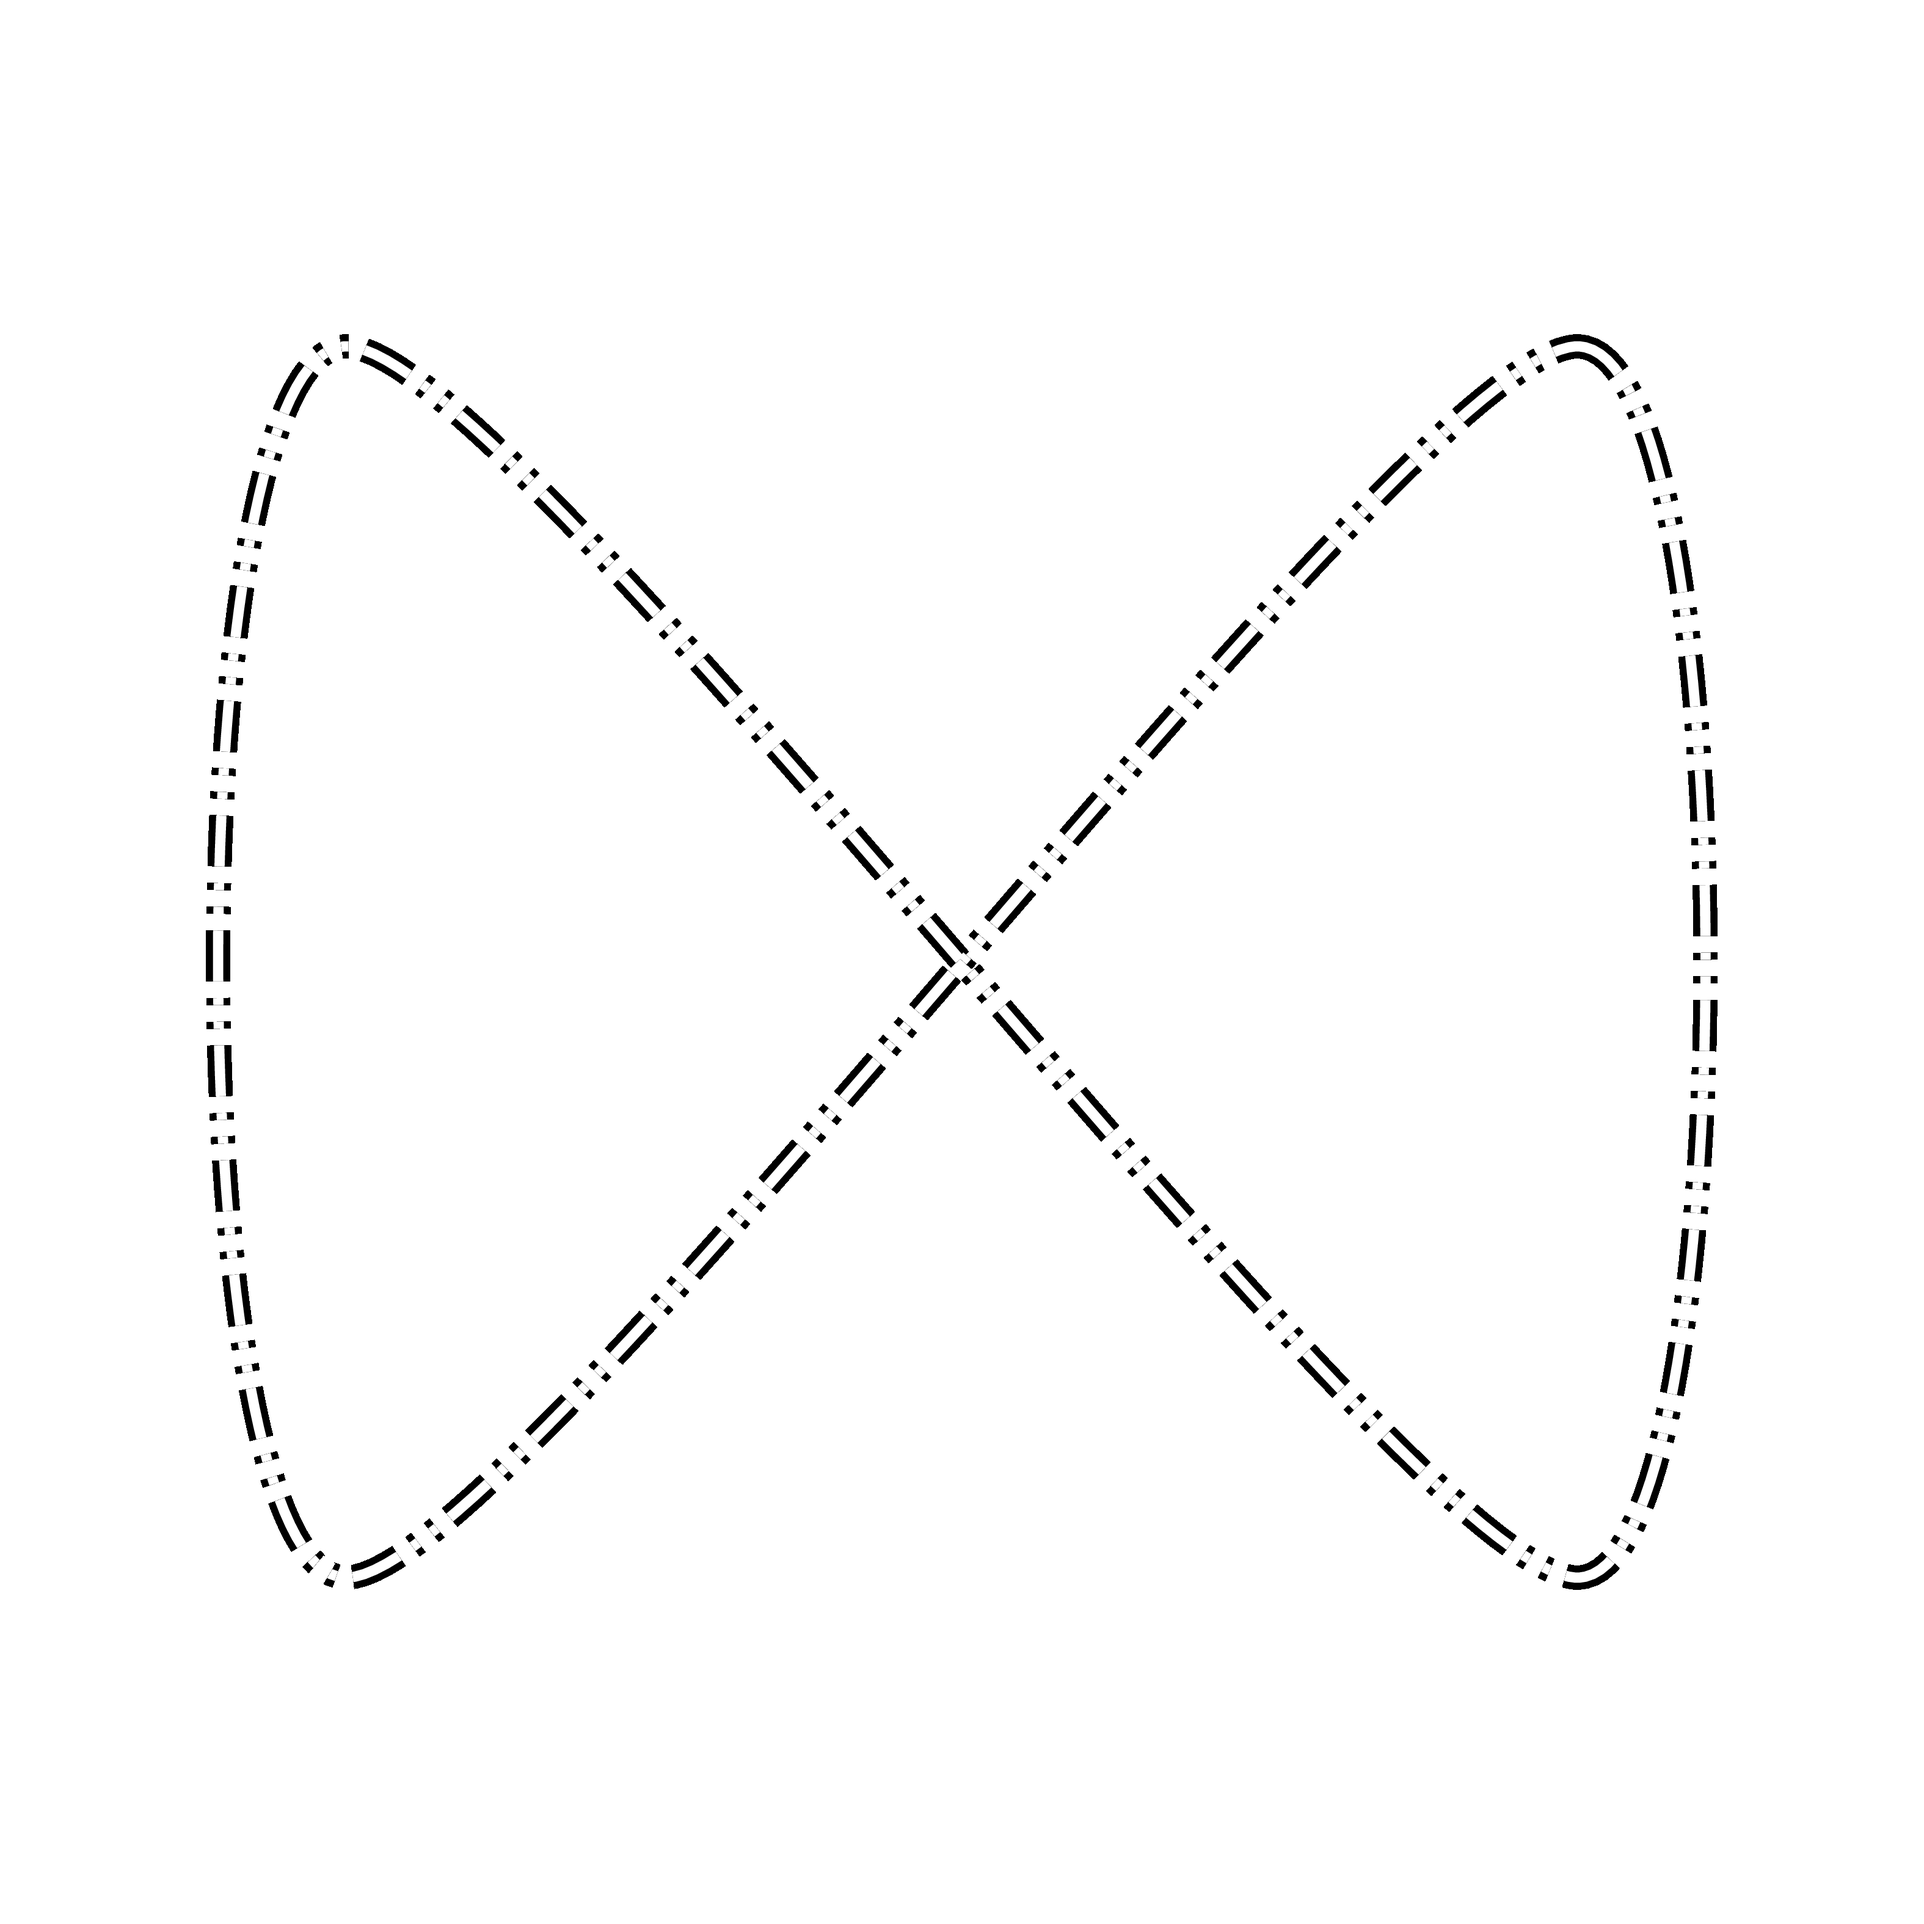
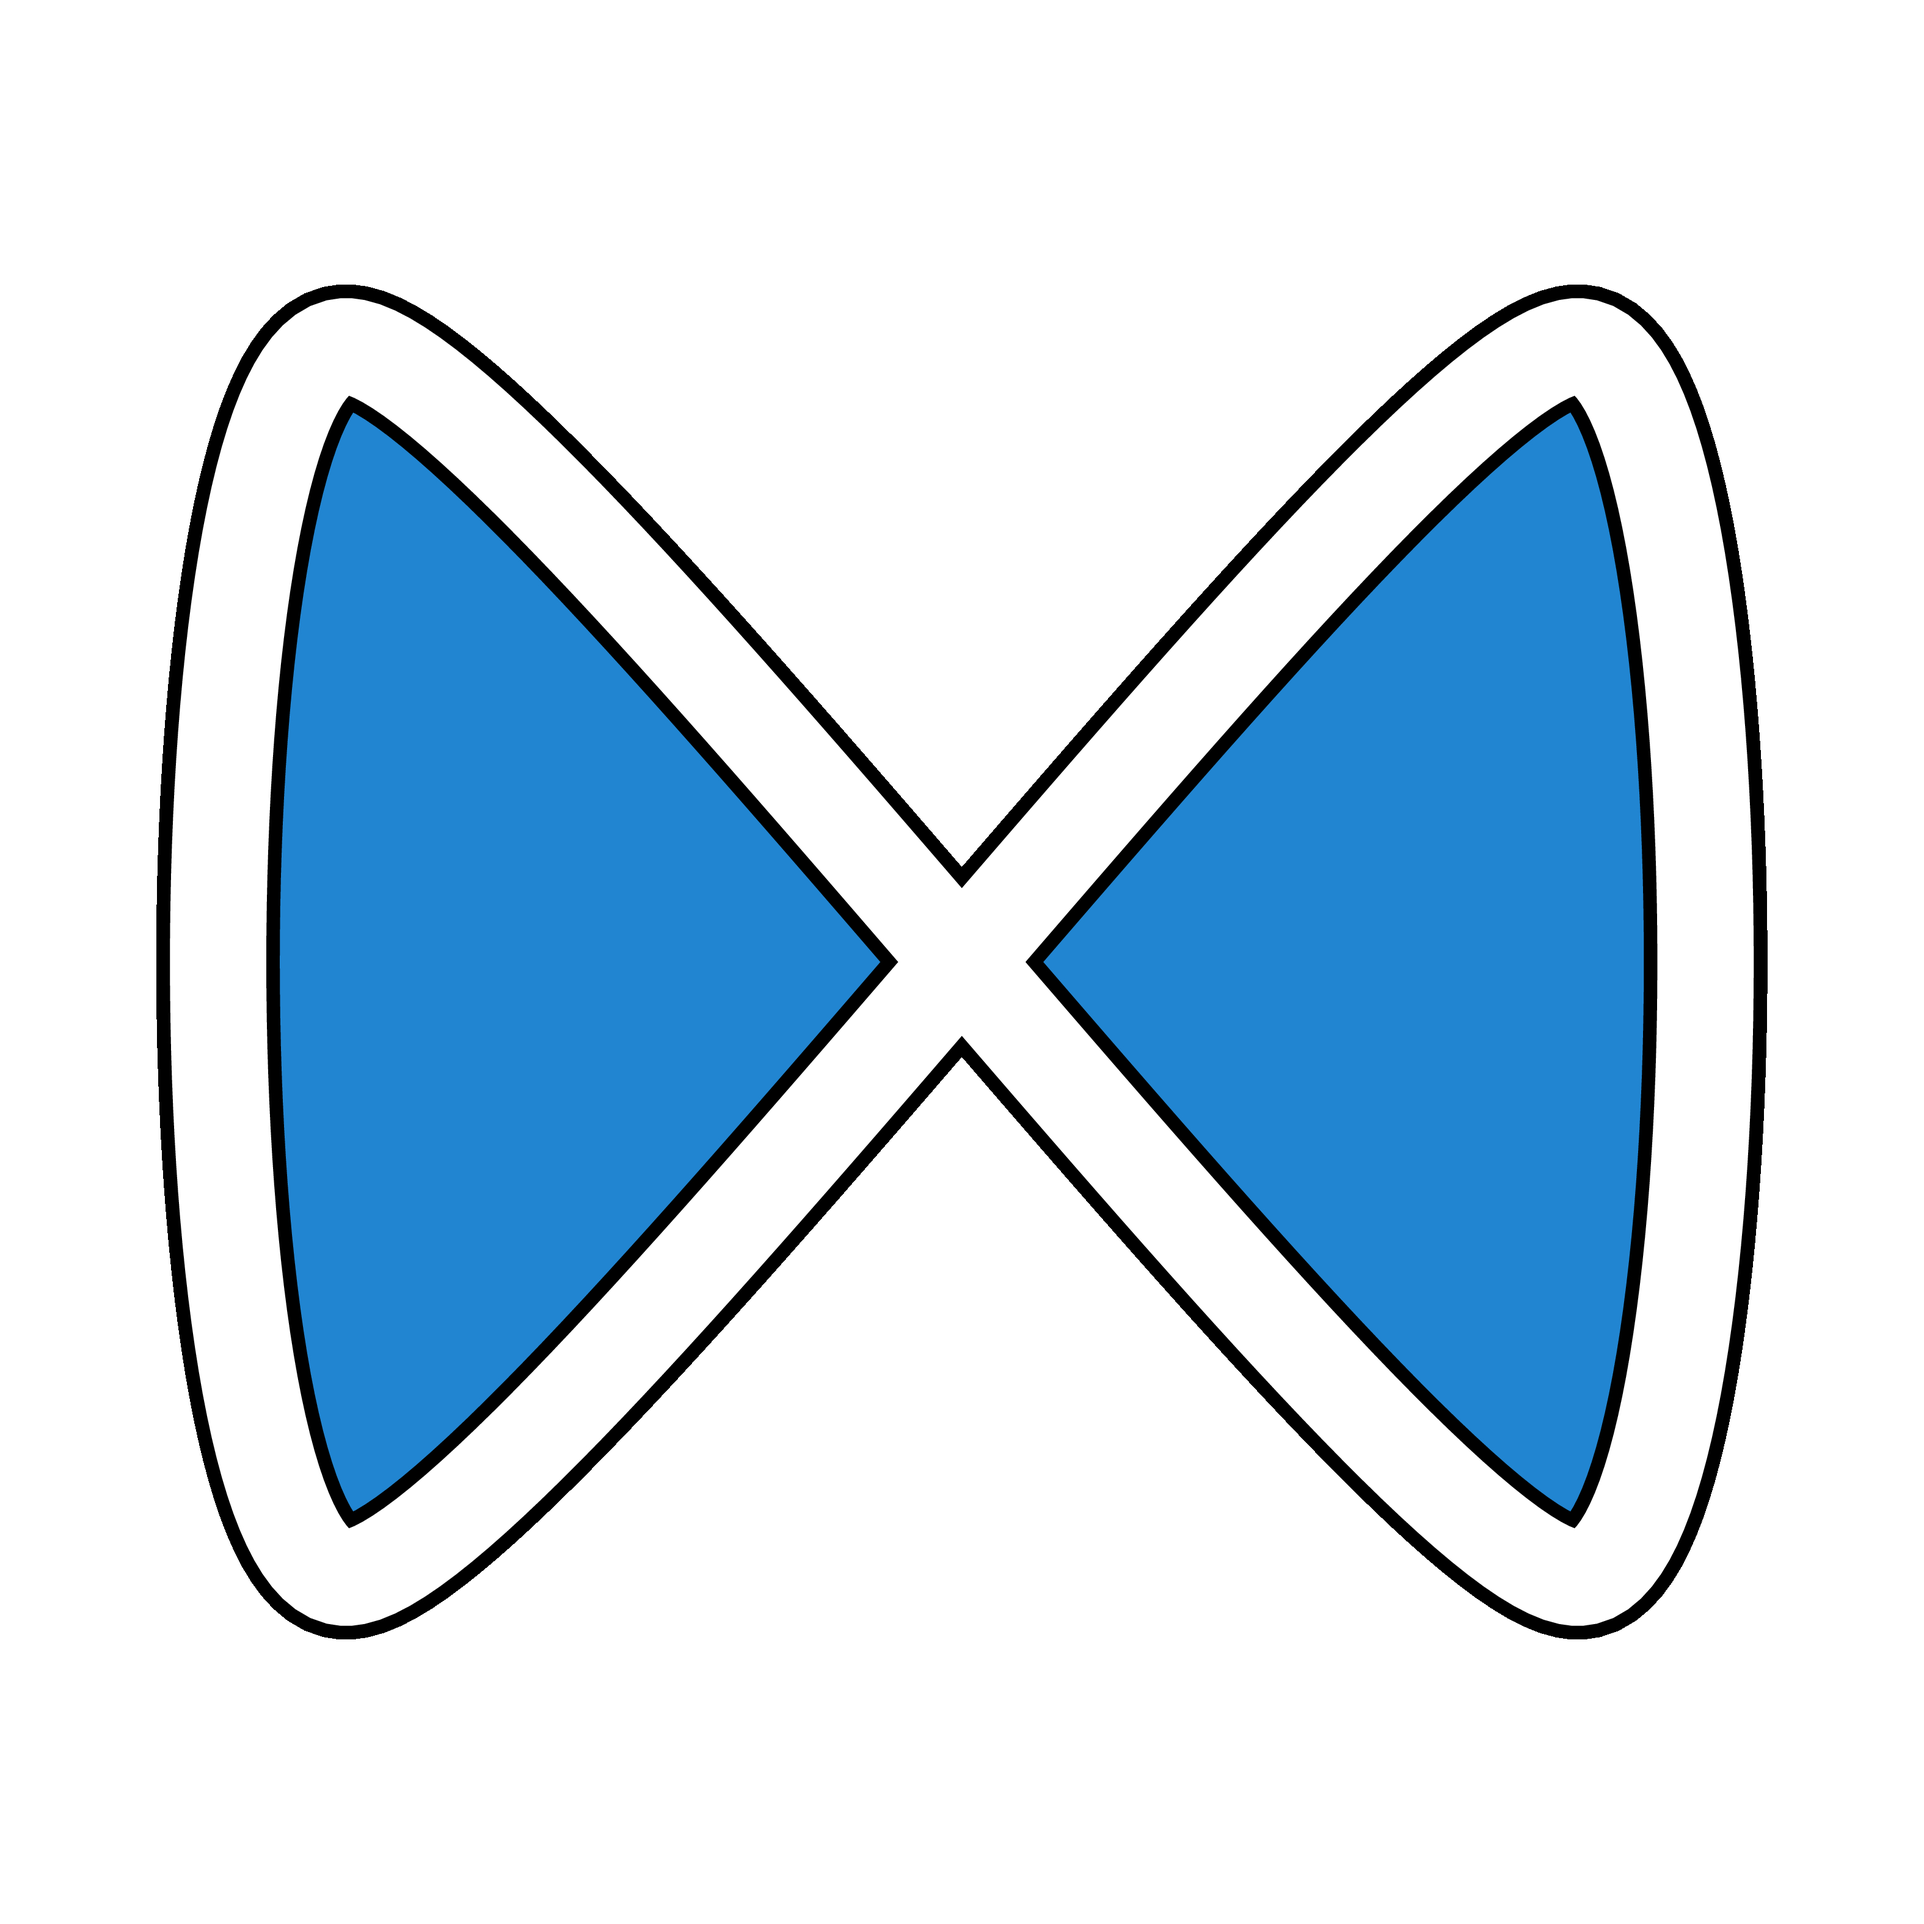
Update design, fill with light blue color.
The first initial design show bad results when used as browsers'
favicons.

Changed region(s): [[0.0622, 0.1244, 0.9333, 0.8711]]

diff --git a/gravatar/gravatar.tex b/gravatar/gravatar.tex
@@ -6,10 +6,11 @@
 
 \begin{document}
 \thispagestyle{empty}
+\definecolor{lightblue}{rgb}{0.13,0.52,0.82}
 
-\begin{tikzpicture}
+\begin{tikzpicture}[fill=lightblue]
   \clip (-2,-2) rectangle (2,2);
-  \draw[densely dash dot dot, double, distance=2mm]
+  \filldraw[double distance=2mm, thick]
   plot[smooth cycle] coordinates{(-1.28,-1.28) (1.28,1.28) (1.28,-1.28) (-1.28,1.28)};
 \end{tikzpicture}
 \end{document}
